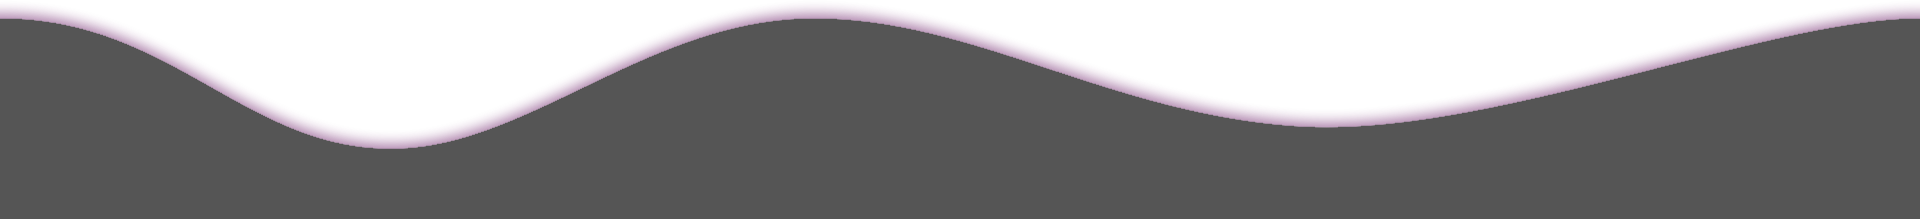
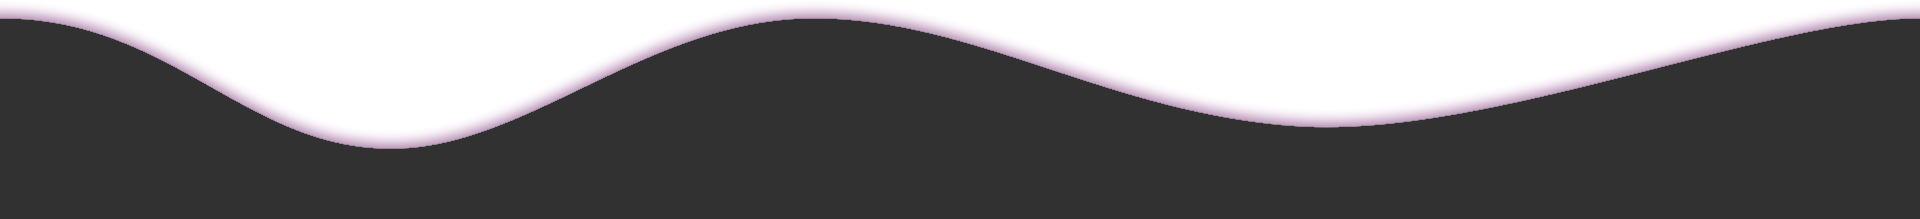
colors adjustment

diff --git a/semantic/front/style.css b/semantic/front/style.css
@@ -24,7 +24,7 @@ html {
   overflow: hidden;
   height: 100%;
   bottom: -1px;
-  background-image: linear-gradient(to right, #86377b 20%, blue 140%);
+  background-image: linear-gradient(to right, #fc466b, #3f5efb);
 }
 
 .ui.container.content {
@@ -71,7 +71,7 @@ html {
 }
 
 .mdark {
-  background-color: #555555 !important;
+  background-color: #313131 !important;
   color: white !important;
   transition: all 0.5s ease !important;
 }
@@ -252,7 +252,7 @@ html {
 }
 
 .card-header {
-  background-color: cornflowerblue !important;
+  background-color: #667fff !important;
   padding: 5%;
 }
 
@@ -261,7 +261,7 @@ html {
 }
 
 .important .card-header {
-  background-color: hotpink !important;
+  background-color: #fc6986 !important;
 }
 
 .important .card {
